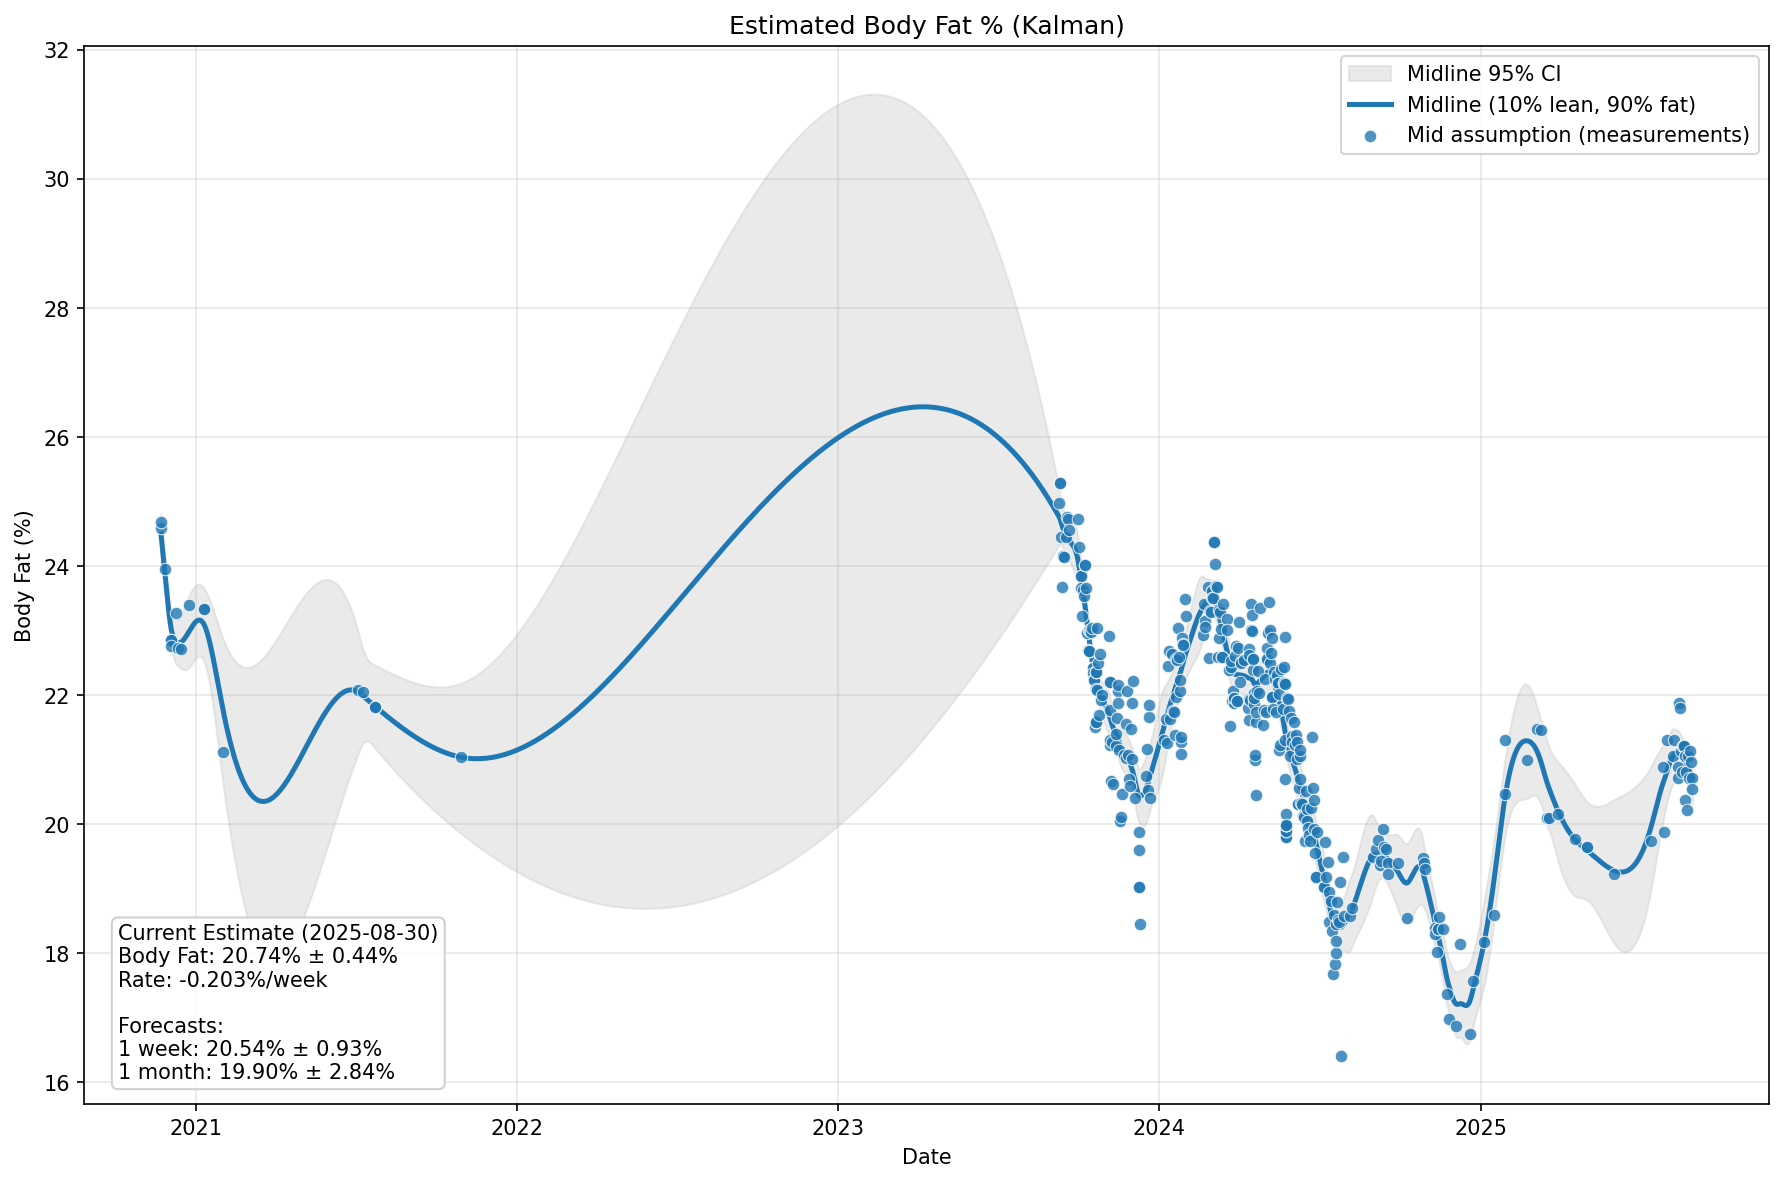
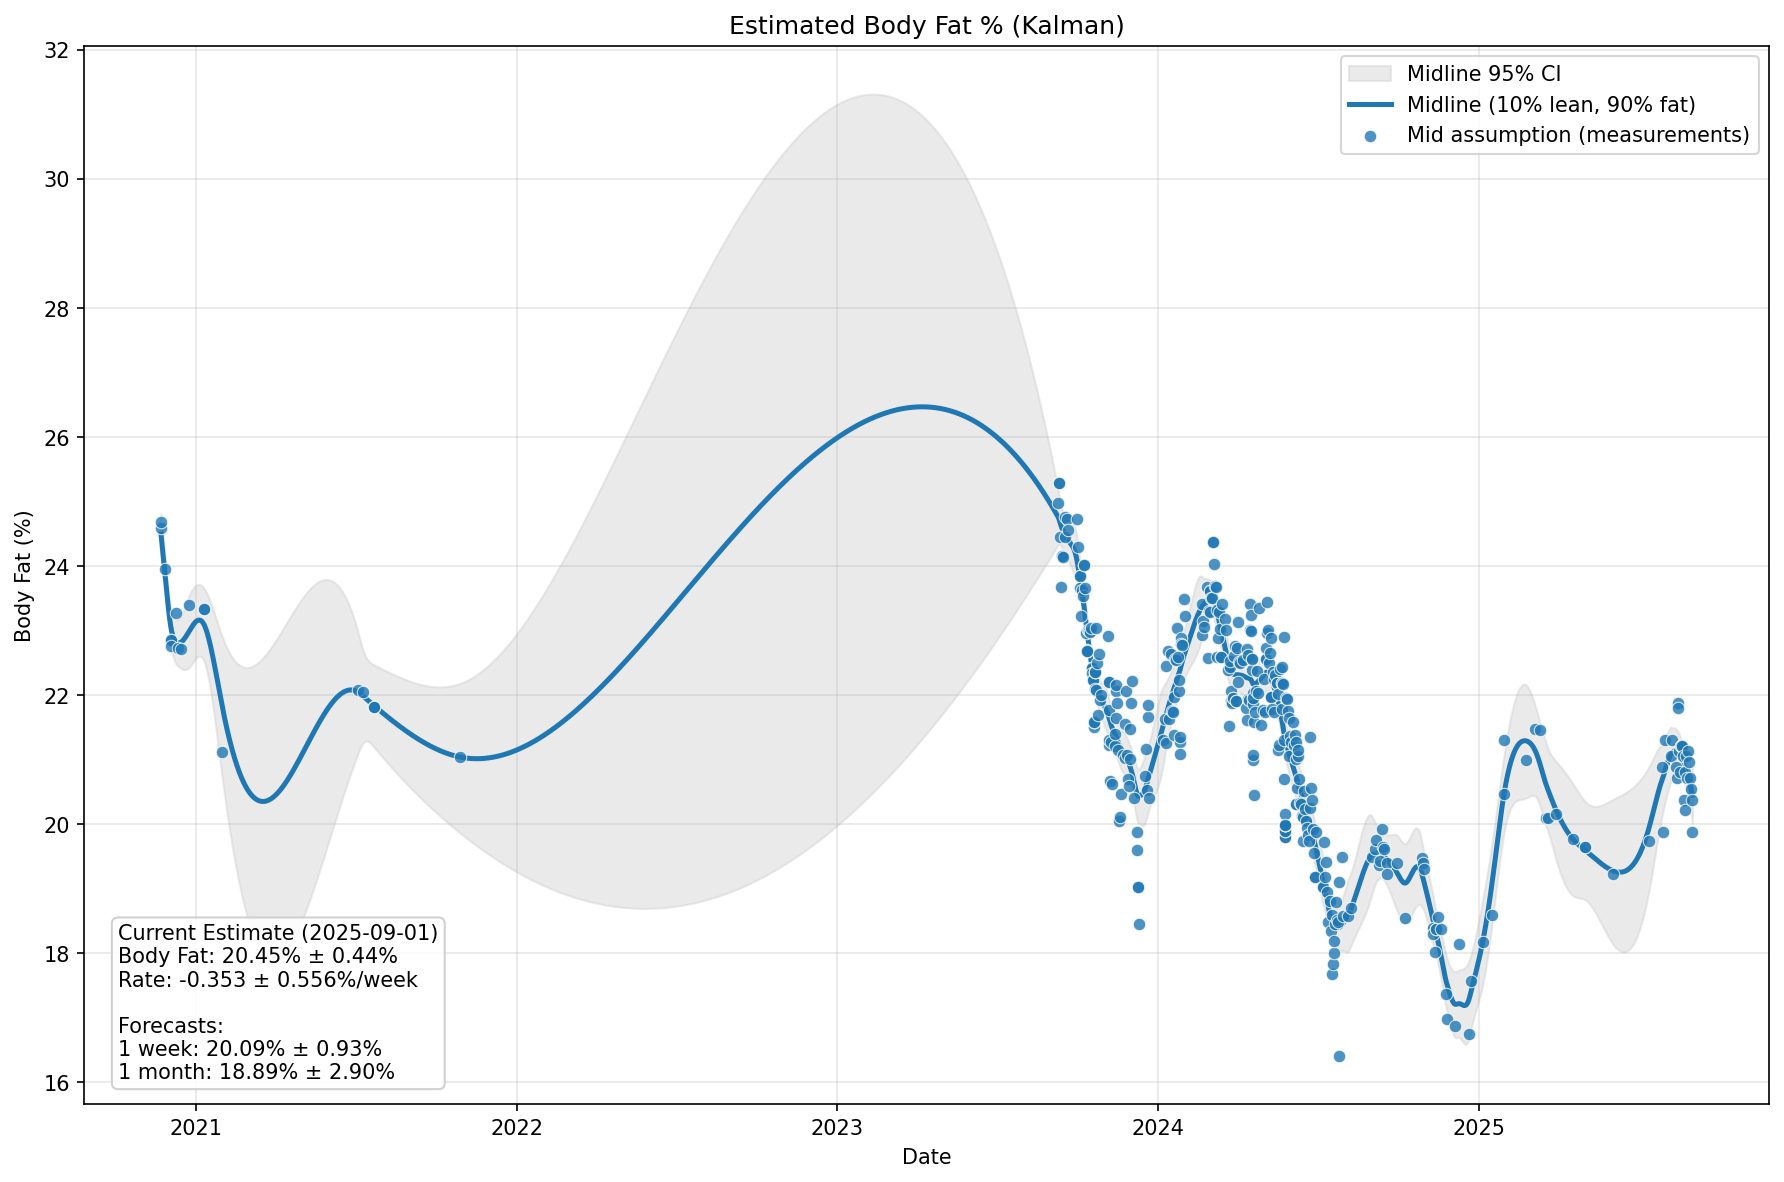
added velocity uncertainty and to_do list

diff --git a/kalman.py b/kalman.py
@@ -646,10 +646,16 @@ def create_kalman_plot(entries,
     week_forecast, week_std = kf.forecast(7.0)
     month_forecast, month_std = kf.forecast(30.0)
     
+    # Calculate velocity uncertainty (95% confidence interval)
+    velocity_std = np.sqrt(max(latest_state.velocity_var, 0.0))
+    velocity_ci = 1.96 * velocity_std
+    velocity_per_week = 7 * latest_state.velocity
+    velocity_ci_per_week = 7 * velocity_ci
+    
     # Create stats text (mean/std from spline; slope from latest Kalman state)
     stats_text = f"""Current Estimate ({latest_date})
 Weight: {current_mean:.2f} ± {1.96 * current_std:.2f}
-Rate: {(7*latest_state.velocity):+.3f} lbs/week
+Rate: {velocity_per_week:+.3f} ± {velocity_ci_per_week:.3f} lbs/week
 
 Forecasts:
 1 week: {week_forecast:.2f} ± {1.96 * week_std:.2f}
@@ -900,6 +906,32 @@ def create_bodyfat_plot_from_kalman(
         else:
             bf_slope_per_day = 0.0
     bf_slope_per_week = 7.0 * bf_slope_per_day
+    
+    # Calculate body fat rate uncertainty by propagating weight velocity uncertainty
+    # For the body fat model: BF% = 100 * (W - L) / W where L = L0 + s*(W - W0)
+    # The rate uncertainty comes from the weight velocity uncertainty
+    weight_velocity_std = np.sqrt(max(states[-1].velocity_var, 0.0))
+    weight_velocity_ci = 1.96 * weight_velocity_std
+    
+    # Approximate BF rate uncertainty using finite differences around current weight
+    current_weight = float(dense_means[-1])
+    weight_perturbation = weight_velocity_ci * 7.0  # 1 week worth of velocity uncertainty
+    
+    if lbm_csv:
+        # For LBM-based calculation, uncertainty comes from weight uncertainty
+        current_lbm = _evaluate_lbm_series([dense_datetimes[-1]], lbm_points)[0]
+        bf_current = float(max(0.0, min(100.0, 100.0 * (1.0 - (current_lbm / max(1e-6, current_weight))))))
+        bf_pert_lo = float(max(0.0, min(100.0, 100.0 * (1.0 - (current_lbm / max(1e-6, current_weight - weight_perturbation))))))
+        bf_pert_hi = float(max(0.0, min(100.0, 100.0 * (1.0 - (current_lbm / max(1e-6, current_weight + weight_perturbation))))))
+    else:
+        # For model-based calculation with s_mid = 0.10
+        s_mid = 0.10
+        bf_current = _compute_bodyfat_pct_from_weight([current_weight], [dense_datetimes[-1]], baseline_weight_lb, baseline_lean_lb, s_mid)[0]
+        bf_pert_lo = _compute_bodyfat_pct_from_weight([current_weight - weight_perturbation], [dense_datetimes[-1]], baseline_weight_lb, baseline_lean_lb, s_mid)[0]
+        bf_pert_hi = _compute_bodyfat_pct_from_weight([current_weight + weight_perturbation], [dense_datetimes[-1]], baseline_weight_lb, baseline_lean_lb, s_mid)[0]
+    
+    # BF rate uncertainty (per week)
+    bf_rate_uncertainty = max(abs(bf_pert_hi - bf_current), abs(bf_current - bf_pert_lo))
 
     # Forecasts: transform Kalman weight forecasts through BF model
     from kalman import WeightKalmanFilter
@@ -945,7 +977,7 @@ def create_bodyfat_plot_from_kalman(
     stats_text = (
         f"Current Estimate ({latest_date})\n"
         f"Body Fat: {current_bf:.2f}% ± {current_halfwidth:.2f}%\n"
-        f"Rate: {bf_slope_per_week:+.3f}%/week\n\n"
+        f"Rate: {bf_slope_per_week:+.3f} ± {bf_rate_uncertainty:.3f}%/week\n\n"
         f"Forecasts:\n"
         f"1 week: {bf_week_mid:.2f}% ± {bf_week_halfwidth:.2f}%\n"
         f"1 month: {bf_month_mid:.2f}% ± {bf_month_halfwidth:.2f}%"

diff --git a/weight_tracker.py b/weight_tracker.py
@@ -503,7 +503,13 @@ def main() -> None:
                 latest_kalman = kalman_states[-1]
                 print(f"\n=== Kalman Filter Summary ===")
                 print(f"Current weight estimate: {latest_kalman.weight:.2f} ± {1.96 * (latest_kalman.weight_var**0.5):.2f}")
-                print(f"Current rate: {7*latest_kalman.velocity:+.3f} lbs/week")
+                
+                # Calculate velocity uncertainty
+                velocity_std = (latest_kalman.velocity_var**0.5)
+                velocity_ci = 1.96 * velocity_std
+                velocity_per_week = 7 * latest_kalman.velocity
+                velocity_ci_per_week = 7 * velocity_ci
+                print(f"Current rate: {velocity_per_week:+.3f} ± {velocity_ci_per_week:.3f} lbs/week")
                 print(f"Calorie deficit: {latest_kalman.velocity*3500:+.3f} calories/day")
                 
                 # Calculate forecasts

diff --git a/INSTALLATION_GUIDE.md b/INSTALLATION_GUIDE.md
@@ -1,6 +1,6 @@
-# 🎯 Weight Tracker Installation Guide
+# Weight Tracker Installation Guide
 
-## 🚀 Quick Start Installation
+## Quick Start Installation
 
 ### Option 1: Professional DMG Installer (Recommended)
 1. **Download the Installer**
@@ -30,32 +30,32 @@
 3. **Launch**
    - Double-click `WeightTracker` from Applications
 
-## 📱 What You'll Get
+## What You'll Get
 
 - **Professional App**: Full-featured macOS application
 - **Data Management**: Automatic setup of `~/Documents/WeightTracker/` directory
 - **CSV Import**: Your existing weight and LBM data will be automatically copied
 - **No Dependencies**: Everything is bundled - no Python installation required
 
-## 🔧 First Launch Setup
+## First Launch Setup
 
 When you first launch WeightTracker:
 
 1. **Permission Requests**: macOS may ask for permissions to access files
 2. **Data Directory**: The app automatically creates `~/Documents/WeightTracker/`
 3. **Initial Data**: Your CSV files are copied to the user directory
-4. **Ready to Use**: Start tracking your fitness journey immediately!
+4. **Ready to Use**: Start tracking your fitness progress immediately
 
-## 📊 Features Available
+## Features Available
 
-- ✅ **Weight Tracking**: Monitor weight over time
-- ✅ **Body Composition**: Track lean body mass and body fat
-- ✅ **Advanced Analytics**: EMA smoothing, Kalman filtering
-- ✅ **Data Visualization**: Generate beautiful charts and plots
-- ✅ **Data Export**: Work with CSV files
-- ✅ **Trend Analysis**: Identify patterns and progress
+- **Weight Tracking**: Monitor weight over time
+- **Body Composition**: Track lean body mass and body fat
+- **Advanced Analytics**: EMA smoothing, Kalman filtering
+- **Data Visualization**: Generate charts and plots
+- **Data Export**: Work with CSV files
+- **Trend Analysis**: Identify patterns and progress
 
-## 🛠 Troubleshooting
+## Troubleshooting
 
 ### App Won't Launch
 - Check that the app is in your Applications folder
@@ -72,14 +72,14 @@ When you first launch WeightTracker:
 - Plots are saved to `~/Documents/WeightTracker/`
 - Use the "Open plot" buttons in the GUI to view results
 
-## 📁 File Locations
+## File Locations
 
 - **App Bundle**: `/Applications/WeightTracker.app`
 - **User Data**: `~/Documents/WeightTracker/`
 - **Generated Plots**: `~/Documents/WeightTracker/*.png`
 - **CSV Files**: `~/Documents/WeightTracker/*.csv`
 
-## 🎉 You're All Set!
+## Installation Complete
 
 After installation:
 1. Launch WeightTracker from Applications
@@ -91,7 +91,7 @@ After installation:
 
 **Need Help?** The app includes comprehensive error handling and will guide you through any issues.
 
-**Enjoy your fitness journey with Weight Tracker!** 🏃♂💪
+**Support**: For technical issues, refer to the troubleshooting section above or consult the project documentation.
 
 
 ## Cleaning build artifacts

diff --git a/to_do.md b/to_do.md
@@ -1,0 +1,15 @@
+To do list (small):
+1. Auto-create csv if none exists
+2. Uploading csv is actually a copy into the app directory
+3. Polish GUI text 
+4. Rename kalman.py to kalman_filter.py
+
+To do list (big):
+1. Clean up all the code, especially the kalman filter code
+2. Add powerlifting functionality
+2. Add a "notes" field to the weight entries
+3. Add a "notes" field to the lbm entries
+4. 
+
+Long term:
+1. iOS app
